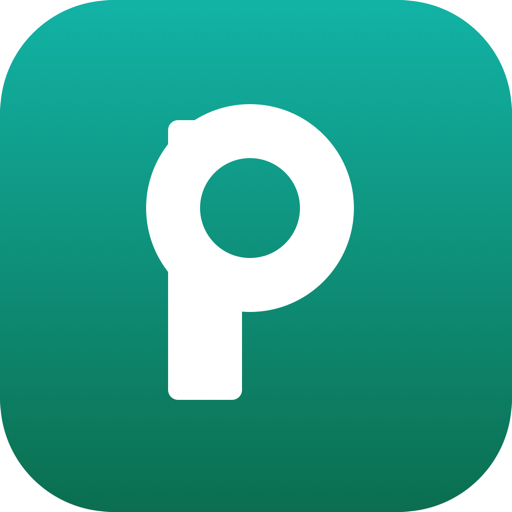
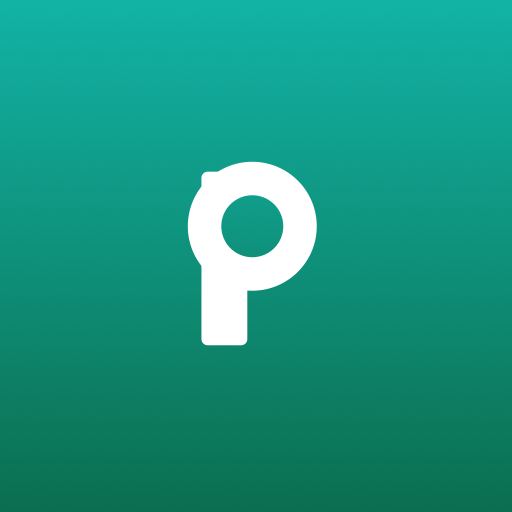
fix(pwa): app operatore e Manager come due PWA distinte
Android identifica una PWA installata dal manifest, non dall'URL aperto:
con un manifest solo, "Aggiungi a Home" da /admin installava di fatto
l'app operatore, con lo stesso nome e la stessa icona, e la riapriva su
"/". Impossibile tenerle installate entrambe.

Ora ci sono due pagine di ingresso sullo stesso bundle React (App.jsx
smista già sul pathname): index.html con manifest.webmanifest e
admin.html con manager.webmanifest (id/start_url/scope su /admin, nome
"Parcheggio Manager", icone viola per distinguerle sulla home).

Dettagli che senza di loro la fix non regge:
- manifest: false nel plugin PWA, che altrimenti ne genera e inietta uno
  solo in entrambe le pagine;
- /admin escluso dal navigateFallback del service worker: rispondeva da
  cache con index.html, cioè col manifest sbagliato, su tutti i telefoni
  che avevano già aperto l'app almeno una volta;
- server.js e dev server servono admin.html su /admin.

Corretta anche maskable-512.png, che era un duplicato esatto di
icon-512.png: Android applicava la sua maschera a un'icona già con gli
angoli arrotondati e tagliava la "P".

diff --git a/client/vite.config.js b/client/vite.config.js
@@ -1,35 +1,53 @@
+import { fileURLToPath } from 'node:url';
 import { defineConfig } from 'vite';
 import react from '@vitejs/plugin-react';
 import { VitePWA } from 'vite-plugin-pwa';
 
+const pagina = (f) => fileURLToPath(new URL(f, import.meta.url));
+
 export default defineConfig({
+  build: {
+    // Due pagine di ingresso per la STESSA app React (App.jsx smista sul
+    // pathname): index.html = operatore, admin.html = responsabile. Servono
+    // separate solo per dare a ciascuna il proprio manifest → due PWA distinte
+    // e installabili in parallelo su Android.
+    rollupOptions: {
+      input: { main: pagina('index.html'), admin: pagina('admin.html') },
+    },
+  },
   plugins: [
     react(),
+    // In sviluppo il dev server manderebbe /admin sul fallback index.html (cioè
+    // sulla pagina dell'operatore): stessa app, ma manifest sbagliato. Questo
+    // rewrite tiene dev e produzione identici — vedi src/server.js.
+    {
+      name: 'admin-html-dev',
+      configureServer(server) {
+        server.middlewares.use((req, _res, next) => {
+          const u = req.url || '';
+          if (u === '/admin' || u.startsWith('/admin?')) req.url = '/admin.html';
+          next();
+        });
+      },
+    },
     // Rende l'app installabile ("Aggiungi a Home") senza passare dagli store.
     // registerType 'autoUpdate' = l'aggiornamento arriva da solo al deploy successivo.
     VitePWA({
       registerType: 'autoUpdate',
       includeAssets: ['apple-touch-icon.png'],
-      manifest: {
-        name: 'Parcheggio Stabilimento',
-        short_name: 'Parcheggio',
-        description: 'Gestione accessi parcheggio stabilimento balneare',
-        lang: 'it',
-        start_url: '/',
-        display: 'standalone',
-        orientation: 'portrait',
-        background_color: '#0f172a',
-        theme_color: '#0b1220',
-        icons: [
-          { src: '/icon-192.png', sizes: '192x192', type: 'image/png' },
-          { src: '/icon-512.png', sizes: '512x512', type: 'image/png' },
-          { src: '/maskable-512.png', sizes: '512x512', type: 'image/png', purpose: 'maskable' },
-        ],
-      },
+      // manifest: false → i due manifest sono file statici in public/
+      // (manifest.webmanifest e manager.webmanifest), linkati a mano nelle
+      // rispettive pagine. Il plugin ne genererebbe e inietterebbe uno solo,
+      // che è esattamente il bug degli shortcut Android.
+      manifest: false,
       workbox: {
         // Cache dello shell per apertura rapida/offline; le /api restano sempre online.
         globPatterns: ['**/*.{js,css,html,png,svg,ico,webmanifest}'],
-        navigateFallbackDenylist: [/^\/api\//],
+        // /admin NON deve passare dal fallback di navigazione: il service worker
+        // risponderebbe con index.html (cioè con il manifest dell'operatore) e
+        // installando dal pannello ti ritroveresti di nuovo l'app operatore.
+        // Escluso qui, la navigazione va in rete e il server serve admin.html.
+        navigateFallbackDenylist: [/^\/api\//, /^\/admin/],
       },
     }),
   ],

diff --git a/client/admin.html b/client/admin.html
@@ -1,0 +1,25 @@
+<!doctype html>
+<html lang="it">
+  <head>
+    <meta charset="UTF-8" />
+    <meta
+      name="viewport"
+      content="width=device-width, initial-scale=1, maximum-scale=1, user-scalable=no, viewport-fit=cover"
+    />
+    <meta name="theme-color" content="#0b1220" />
+    <meta name="apple-mobile-web-app-capable" content="yes" />
+    <meta name="apple-mobile-web-app-status-bar-style" content="black-translucent" />
+    <meta name="apple-mobile-web-app-title" content="Manager" />
+    <link rel="apple-touch-icon" href="/manager-180.png" />
+    <!-- Stessa app React di index.html (App.jsx sceglie in base al pathname): qui
+         cambia solo l'IDENTITÀ. Android riconosce una PWA installata dal manifest,
+         non dall'indirizzo che avevi aperto: con un manifest solo, installare da
+         /admin installava di fatto l'app operatore e la riapriva su "/". -->
+    <link rel="manifest" href="/manager.webmanifest" />
+    <title>Parcheggio Manager</title>
+  </head>
+  <body>
+    <div id="root"></div>
+    <script type="module" src="/src/main.jsx"></script>
+  </body>
+</html>

diff --git a/src/server.js b/src/server.js
@@ -19,8 +19,16 @@ const distDir = path.join(process.cwd(), 'client', 'dist');
 if (existsSync(distDir)) {
   await app.register(fastifyStatic, { root: distDir });
   app.setNotFoundHandler((req, reply) => {
-    if (req.raw.url?.startsWith('/api')) {
+    const url = req.raw.url || '';
+    if (url.startsWith('/api')) {
       return reply.code(404).send({ ok: false, motivo: 'not_found' });
+    }
+    // /admin ha una pagina di ingresso propria: stesso bundle React, ma con il
+    // manifest del Manager. Serve perché Android identifica una PWA installata
+    // dal manifest, non dall'URL: con un manifest solo, installare dal pannello
+    // installava l'app operatore.
+    if (url === '/admin' || url.startsWith('/admin/') || url.startsWith('/admin?')) {
+      return reply.sendFile('admin.html');
     }
     return reply.sendFile('index.html'); // fallback SPA
   });

diff --git a/client/index.html b/client/index.html
@@ -11,6 +11,10 @@
     <meta name="apple-mobile-web-app-status-bar-style" content="black-translucent" />
     <meta name="apple-mobile-web-app-title" content="Parcheggio" />
     <link rel="apple-touch-icon" href="/apple-touch-icon.png" />
+    <!-- Manifest scritto a mano (vedi vite.config.js: manifest: false) perché le
+         pagine di ingresso sono due e ognuna deve dichiarare la PROPRIA identità:
+         questa è l'app operatore, admin.html è il Manager. -->
+    <link rel="manifest" href="/manifest.webmanifest" />
     <title>Parcheggio</title>
   </head>
   <body>

diff --git a/CLAUDE.md b/CLAUDE.md
@@ -9,10 +9,12 @@ alto contrasto, pochissimi tap.
 ## Requisiti funzionali
 
 - **Login operatore**: l'operatore si autentica prima di usare l'app.
-- **Riconoscimento targa**: l'operatore scatta una foto col cellulare → l'app riconosce la
-  targa (ALPR/OCR) e la cerca nell'anagrafica.
-- **Inserimento manuale** (first-class, non un ripiego): se la foto non riconosce la targa,
-  l'operatore la inserisce a mano e ritrova la cabina. UX **anti-fila**: campo con
+- **Inserimento targa = schermata di partenza**: l'app si apre già sul campo targa, senza
+  bivi da scegliere a ogni auto. Nessun titolo e nessun "indietro": dietro non c'è nulla.
+- **Riconoscimento targa (secondario)**: il pulsantino fotocamera accanto al campo scatta
+  una foto → l'app riconosce la targa (ALPR/OCR) e la cerca nell'anagrafica; se la lettura
+  non basta si torna al campo con l'errore e, se la targa è sotto soglia, pre-compilata.
+- **Inserimento manuale** (strada principale): l'operatore scrive la targa e ritrova la cabina. UX **anti-fila**: campo con
   **autocomplete/suggerimenti** mentre digita (filtra le targhe dell'anagrafica già dalle
   prime lettere/cifre), tap sul suggerimento → cabina trovata in un colpo. Nessun form lungo,
   bottoni grandi, pochi tap. Stesso pattern di ricerca usato per la lista uscite.
@@ -98,6 +100,15 @@ Append-only: `{ timestamp, targa, cabina, tipo: "ingresso"|"uscita" }`.
   `client/icon-src.svg`), service worker per shell offline. Android mostra il prompt
   "Installa" con HTTPS+SW+manifest; iOS richiede Condividi → Aggiungi a Home (nessun prompt).
   **HTTPS obbligatorio in produzione** per install Android e per la fotocamera (fase ALPR).
+- **DUE PWA distinte, un solo bundle**: Android identifica un'app installata dal
+  **manifest**, non dall'URL aperto. Con un manifest solo, installare da `/admin` installava
+  di fatto l'app operatore e la riapriva su `/`. Quindi: due pagine di ingresso
+  (`client/index.html` → `manifest.webmanifest`, `client/admin.html` →
+  `manager.webmanifest`, entrambi statici in `client/public/`), `manifest: false` nel plugin
+  PWA (altrimenti ne genera e inietta uno solo), `/admin` escluso dal `navigateFallback` del
+  service worker (altrimenti risponderebbe con `index.html` = manifest sbagliato) e
+  `src/server.js` che serve `admin.html` su `/admin`. Icone Manager viola (`manager-*.png`,
+  da `client/manager-src.svg`) per distinguerle a colpo d'occhio sulla home del telefono.
 - **Backend**: Node + Fastify, serve API + build statica.
 - **DB**: SQLite (`better-sqlite3`).
 - **ALPR**: **Plate Recognizer Snapshot Cloud (pay-per-use)** — ALPR dedicato, affidabile su
